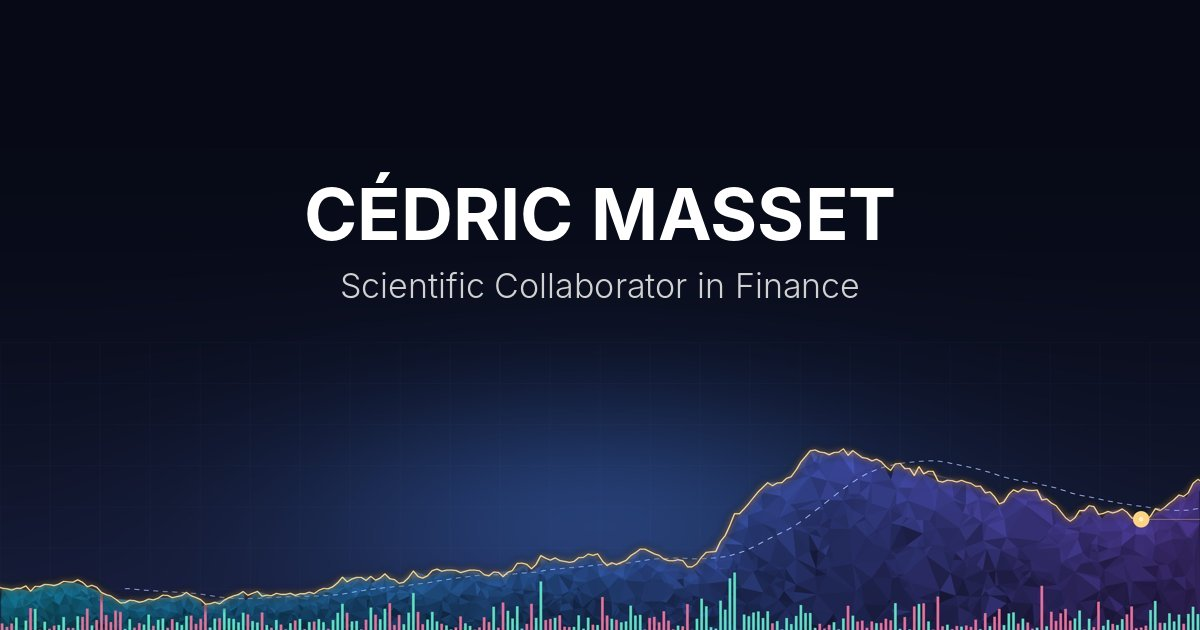
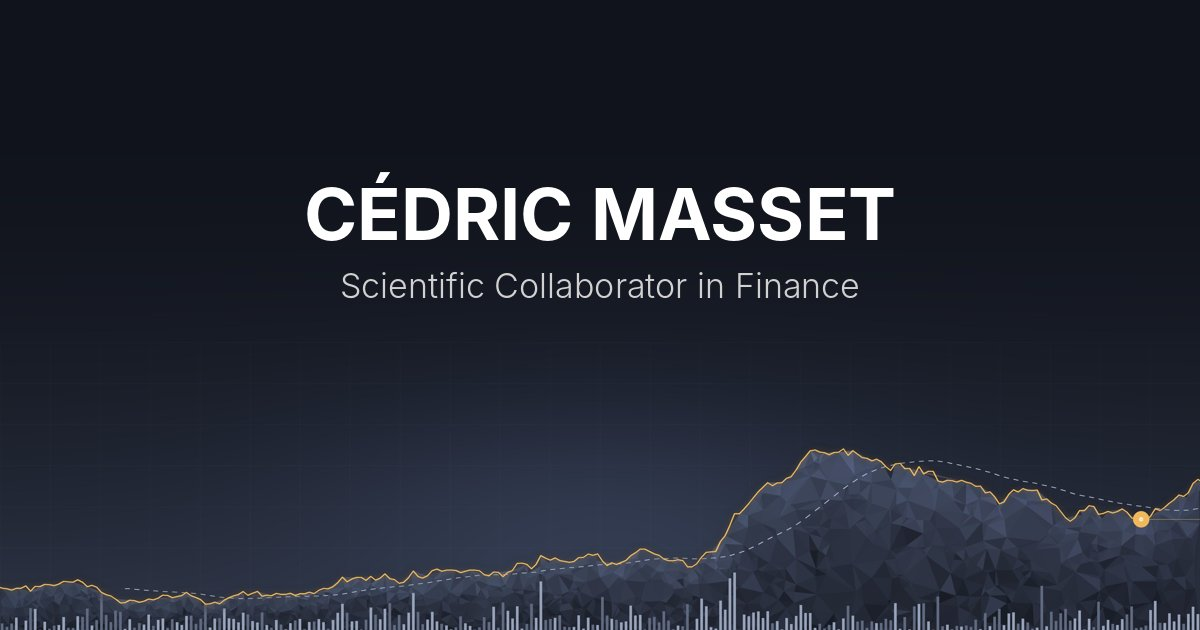
Use slate-and-gold header image (background4.jpg), keep background3.jpg; refresh OG image and theme color
Claude-Session: https://claude.ai/code/session_018LmXD7aacKTXdDT9XpnVzY

Changed region(s): [[0.0, 0.6937, 1.0, 1.0]]

diff --git a/index.html b/index.html
@@ -21,7 +21,7 @@
     <link rel="shortcut icon" href="fav/favicon.ico?v=2">
     <meta name="msapplication-TileColor" content="#374054">
     <meta name="msapplication-config" content="fav/browserconfig.xml">
-    <meta name="theme-color" content="#0b0e1c">
+    <meta name="theme-color" content="#10131b">
 
     <meta name="description" content="Personal website of Cédric Masset" />
     <meta property="og:type" content="website" />

diff --git a/css/styles.css b/css/styles.css
@@ -282,7 +282,7 @@ footer {
 	height: 100vh;
 	min-height: 500px;
 	max-height: 1080px;
-	background: url(../images/background3.jpg);
+	background: url(../images/background4.jpg);
 	background-size: cover;
 	background-position: center bottom;
 	padding: 15px;
